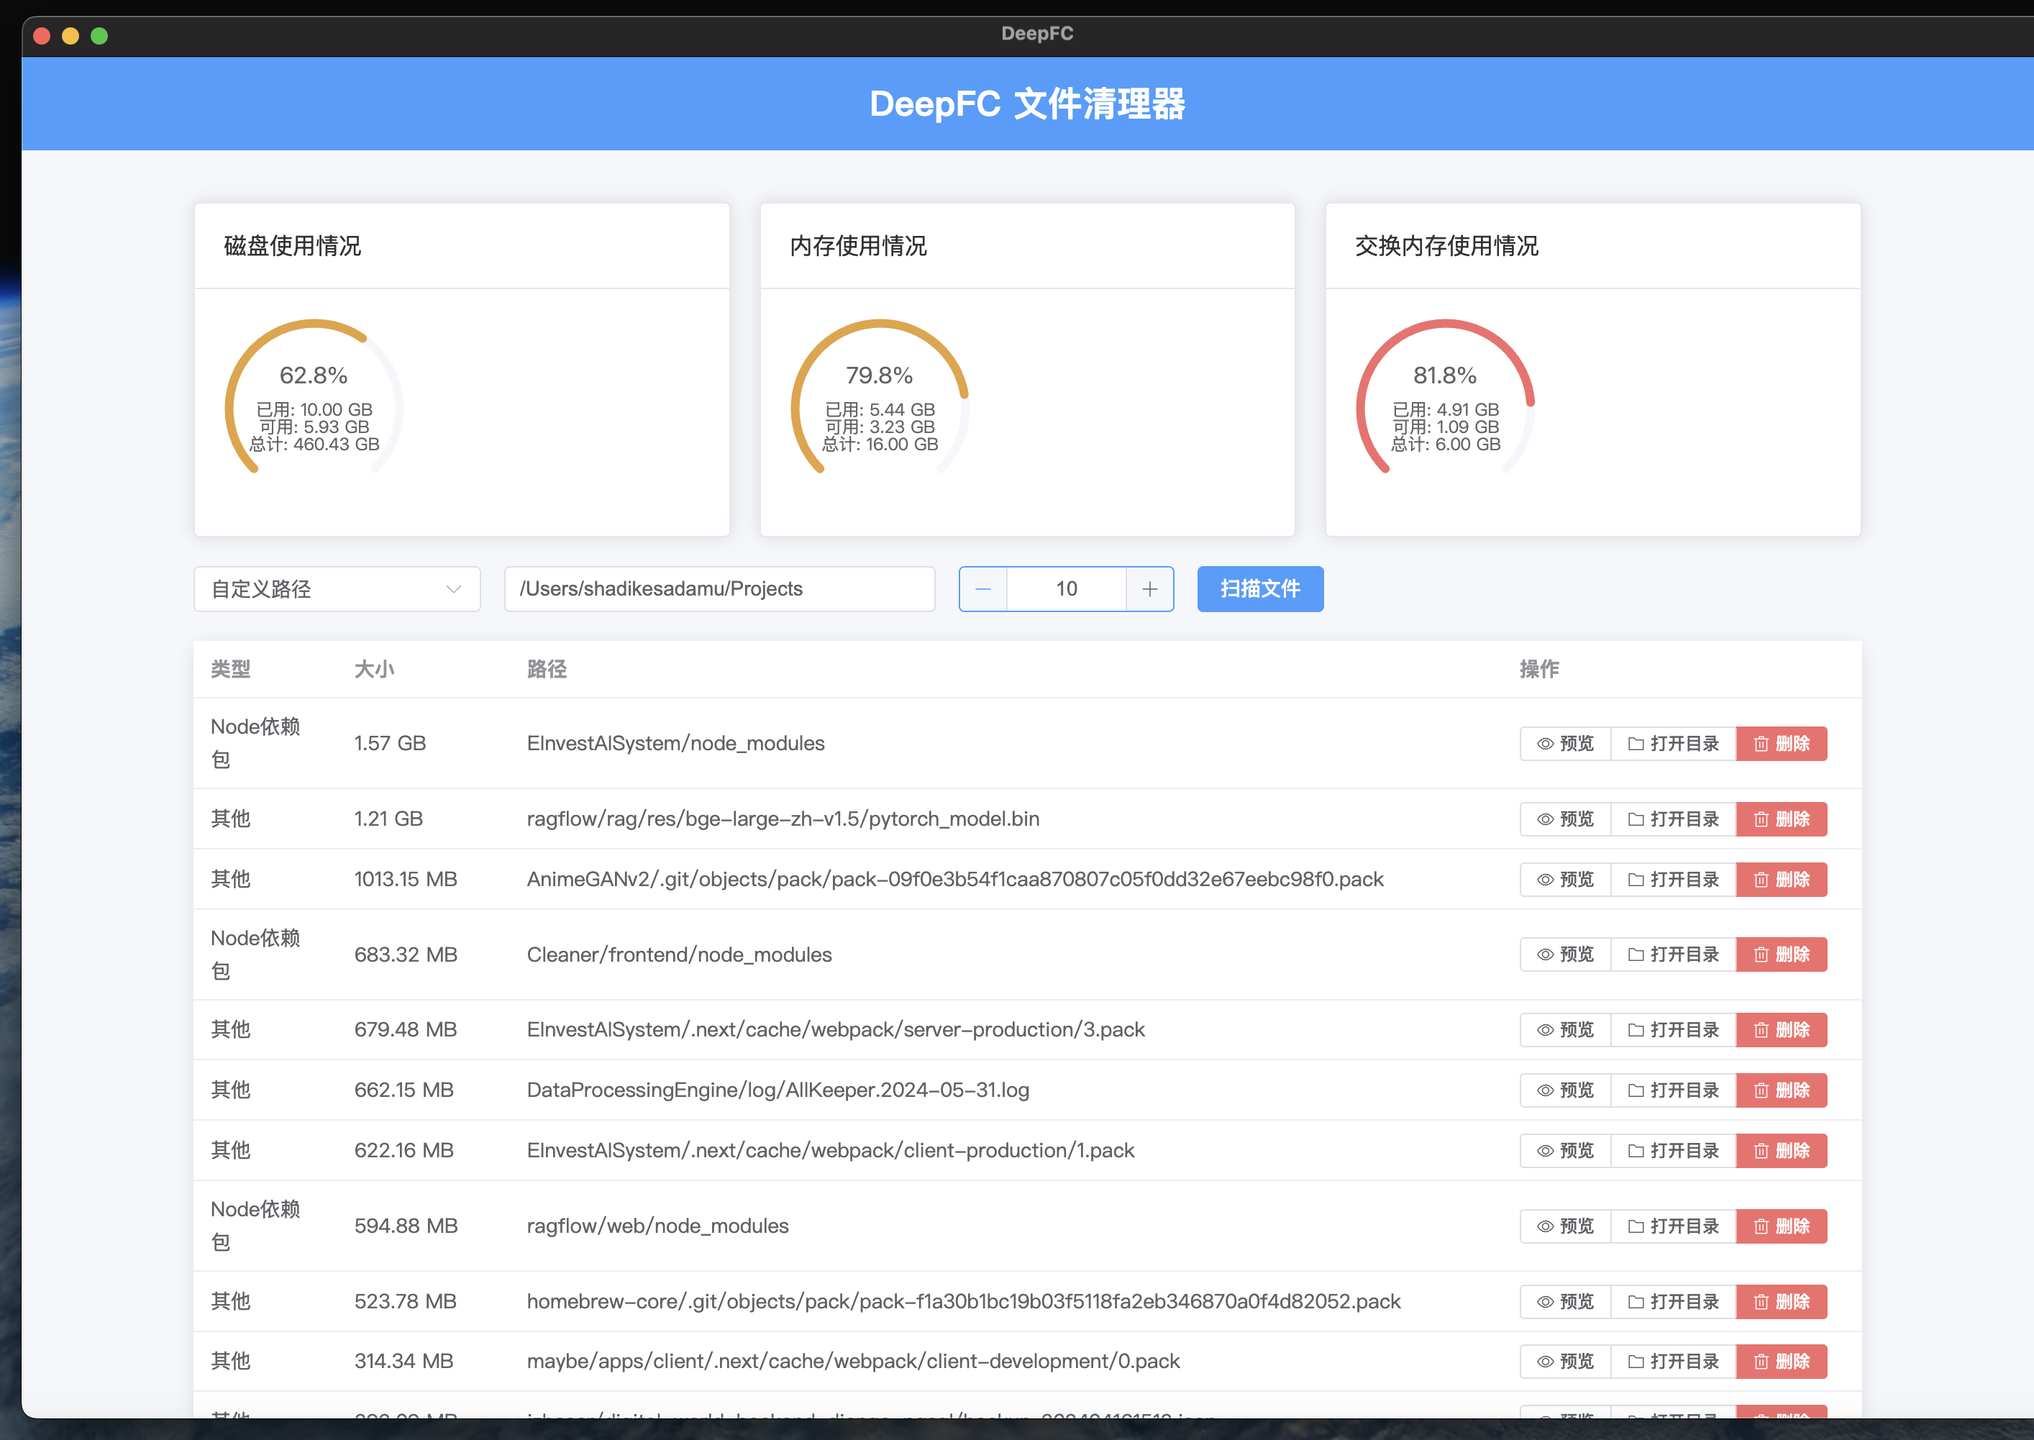
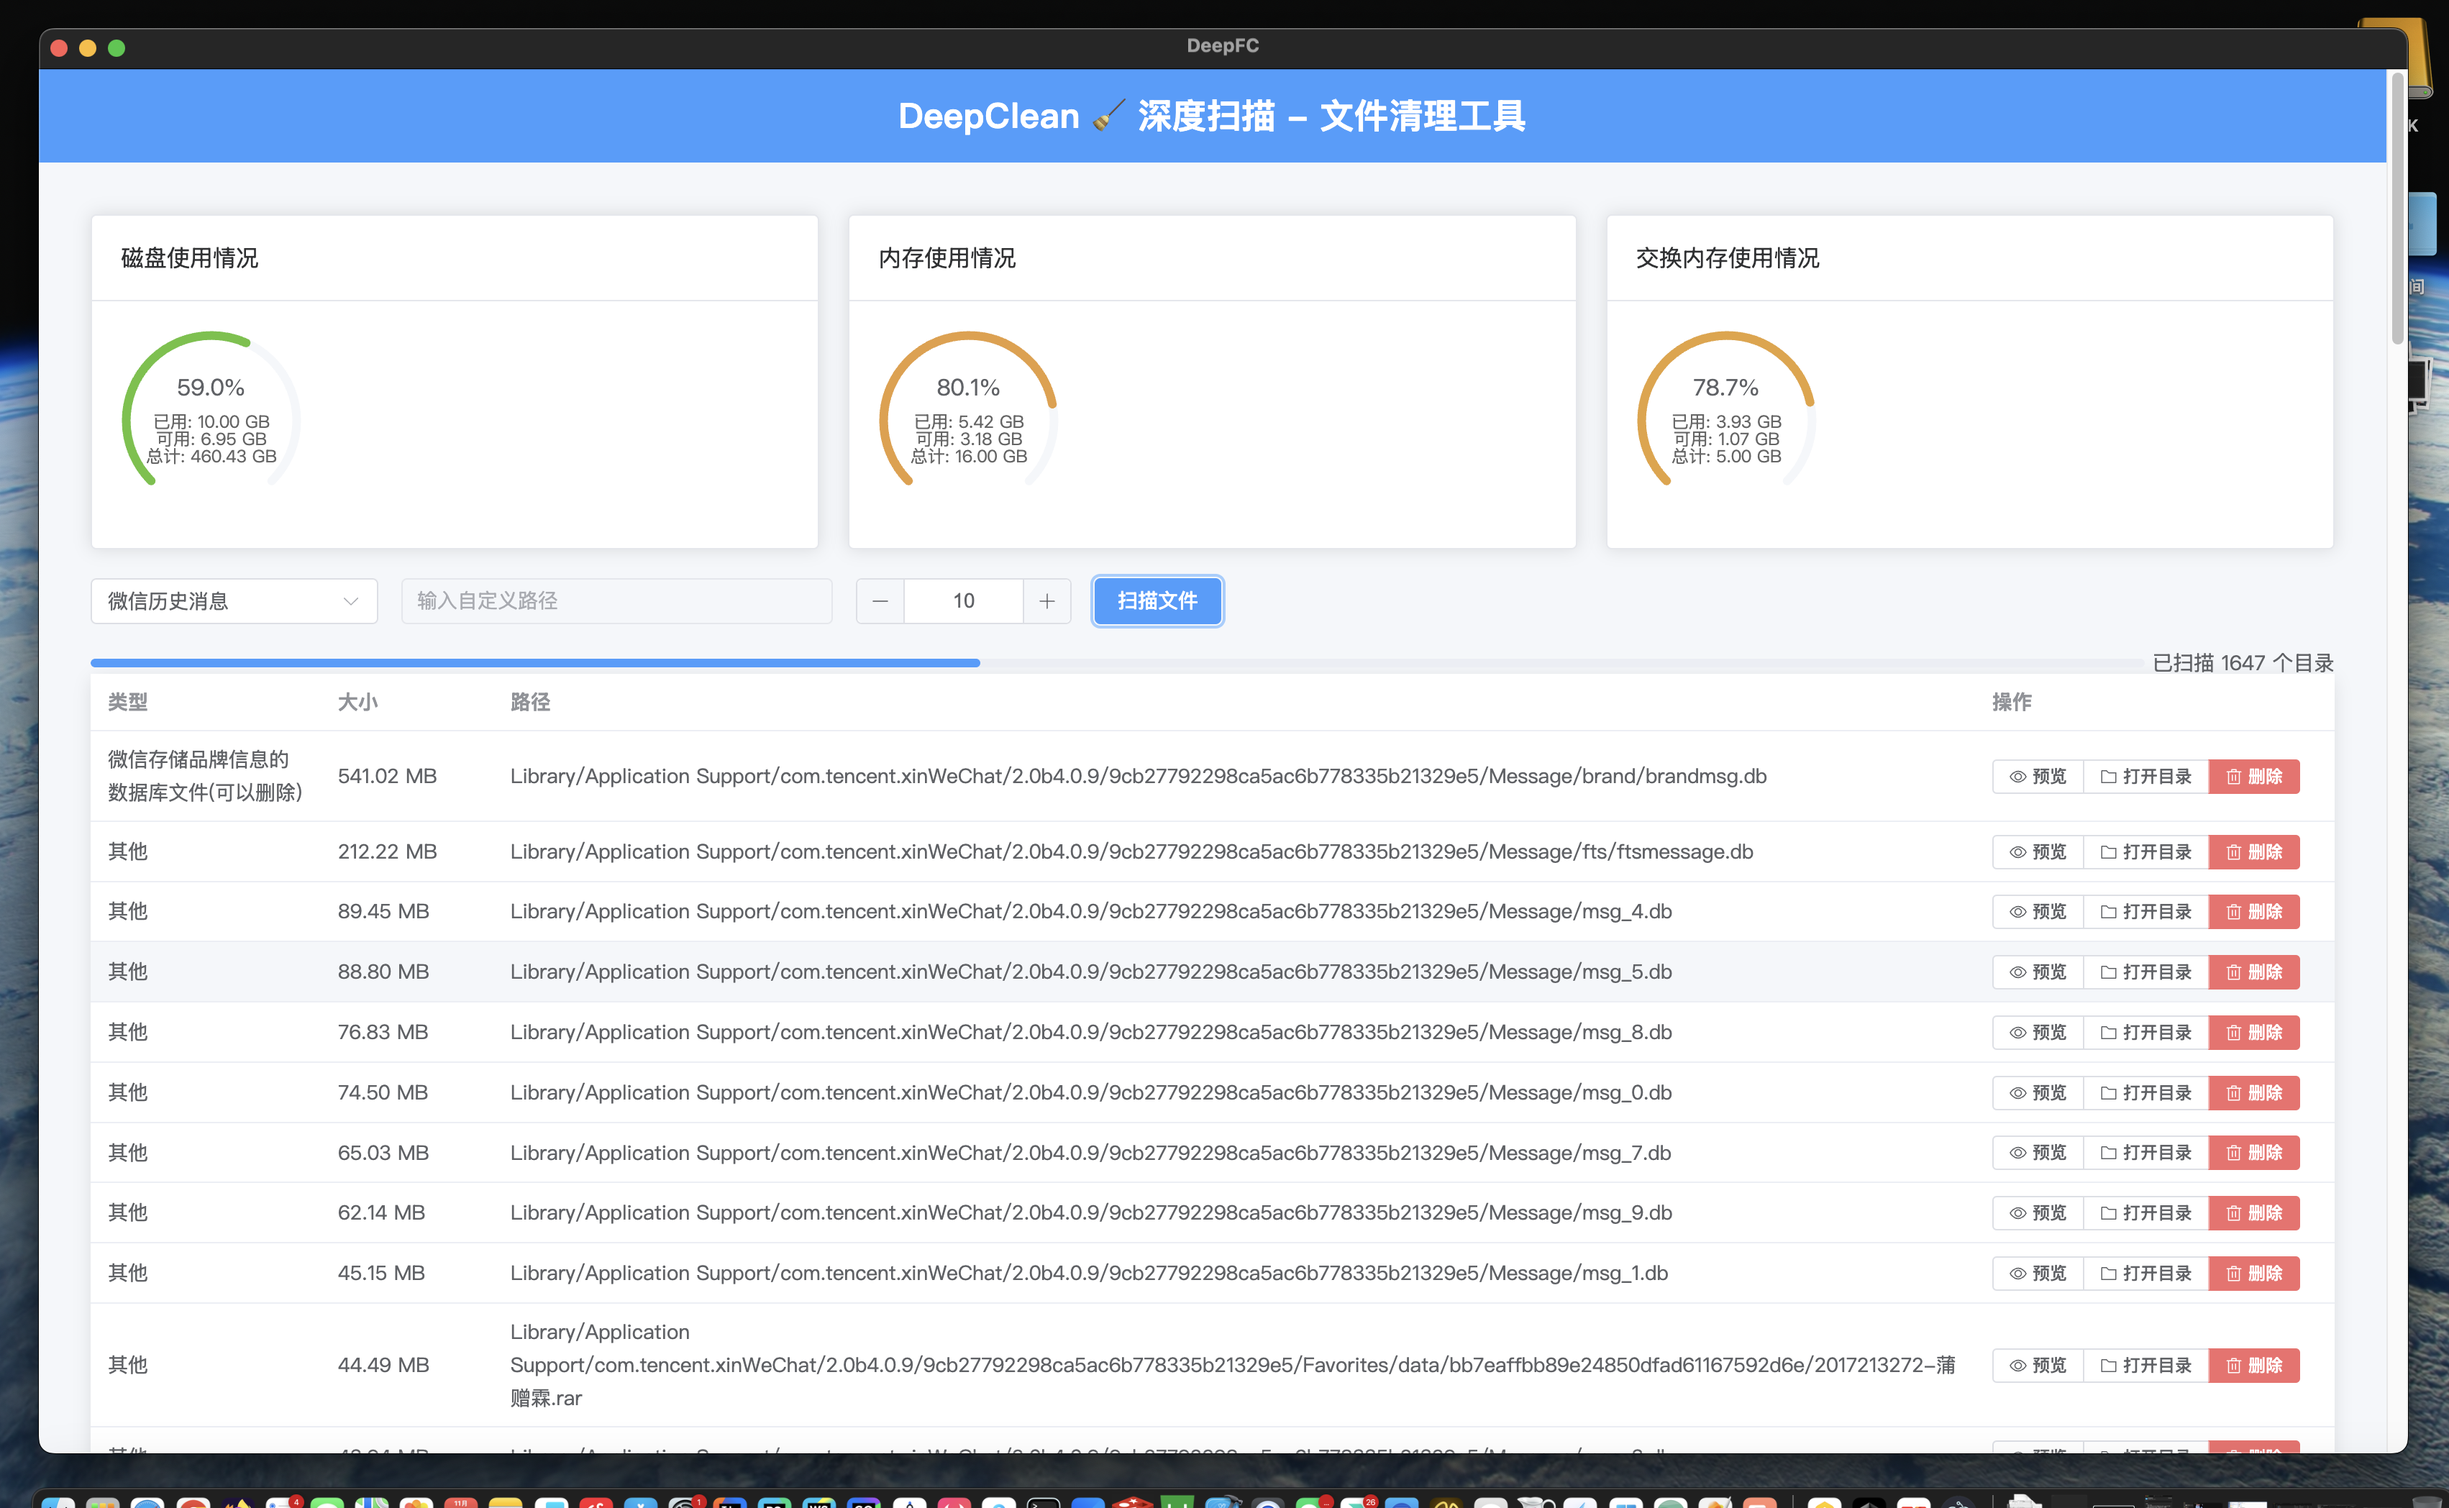
修复了Yarn缓存,Jetbrains全家桶缓存,Lark缓存,PIP缓存等选项报路径不存在异常,优化了界面展示效果,修改了主页上展示的产品名称,相应的修改了文档中的项目标题.增加了一些文件类型检测逻辑和对应的提示语.

diff --git a/frontend/src/components/FileList.vue b/frontend/src/components/FileList.vue
@@ -117,7 +117,7 @@
     <!-- 文件列表 -->
     <div class="file-list">
       <el-table :data="files" style="width: 100%">
-        <el-table-column prop="type" label="类型" width="100" />
+        <el-table-column prop="type" label="类型" width="160" />
         <el-table-column prop="size" label="大小" width="120">
           <template #default="scope">
             {{ formatSize(scope.row.size) }}
@@ -188,7 +188,7 @@ const pathOptions = [
     value: 'yarn',
   },
   {
-    label: 'JetBrains缓存',
+    label: 'Jetbrains全家桶缓存',
     value: 'jetbrains',
   },
   {

diff --git a/frontend/src/App.vue b/frontend/src/App.vue
@@ -1,7 +1,7 @@
 <template>
   <div class="app">
     <header class="header">
-      <h1>DeepFC 文件清理器</h1>
+      <h1>DeepClean 🧹 深度扫描 - 文件清理工具</h1>
     </header>
     <main class="main">
       <FileList />
@@ -43,7 +43,7 @@ body {
 }
 
 .main {
-  max-width: 1200px;
+  max-width: 1600px;
   margin: 0 auto;
   padding: 1rem;
 }

diff --git a/backend/core.py b/backend/core.py
@@ -1,15 +1,18 @@
-import re
-import os
-import click
-from pathlib import Path
-from tools import storageFormat
 import hashlib
+import logging
+import os
+import re
+
+import click
+
+from exceptions import DirectoryNotExistError
+from tools import storageFormat
 
 
 class FileScanner:
     def __init__(self):
         self.base_path = os.path.expanduser(
-            "~/Library/Containers/com.tencent.xinWeChat/Data/Library/Application Support/com.tencent.xinWeChat")
+            "~/Library/Containers/com.tencent.xinWeChat/Data")
         self.large_files = []
         self.size_threshold = 10 * 1024 * 1024  # 默认10MB
         self.accounts = {}
@@ -22,7 +25,7 @@ class FileScanner:
         pattern = r'^[a-fA-F0-9]{32}$'
         return bool(re.match(pattern, dirname))
 
-    def scan_message_files(self, min_size_mb=10):
+    def scan_wx_message_files(self, min_size_mb=10):
         """扫描微信消息中的大文件"""
         self.size_threshold = min_size_mb * 1024 * 1024
 
@@ -89,7 +92,10 @@ class FileScanner:
 
     def _get_file_type(self, filename):
         """获取文件类型"""
+        if filename == "brandmsg.db":
+            return "微信存储品牌信息的数据库文件(可以删除)"
         ext = os.path.splitext(filename)[1].lower()
+        # TODO: 此项映射表可以放在服务器上进行维护
         type_map = {
             '.jpg': '图片',
             '.jpeg': '图片',
@@ -104,6 +110,8 @@ class FileScanner:
             '.docx': 'Word文档',
             '.xls': 'Excel表格',
             '.xlsx': 'Excel表格',
+            '.zip': '压缩包',
+            '.nb3': 'Navicat数据库备份文件 (不可删除, 非常重要‼)'
         }
         return type_map.get(ext, '其他')
 
@@ -173,9 +181,6 @@ class FileScanner:
         self.scanned_dirs = 0
 
         self.size_threshold = min_size_mb * 1024 * 1024
-
-        if not os.path.exists(directory_path):
-            return
 
         def get_dir_size(start_path):
             total_size = 0
@@ -278,17 +283,24 @@ class FileScanner:
         }
 
     def start_scan(self, directory_path, min_size_mb=10):
+        directory_path = os.path.expanduser(directory_path)
         """开始异步扫描"""
+        if not os.path.exists(directory_path):
+            raise DirectoryNotExistError(directory_path)
+        logging.debug(f"触发StartScan:{directory_path}")
         self.clear_scan_results()
         self.scanning = True
 
         def run_scan():
+            logging.debug("扫描进程启动")
             try:
                 self.scan_directory(directory_path, min_size_mb)
+                logging.debug("扫描进程正常结束")
             except Exception as e:
-                print(f"Scan error: {e}")
+                logging.error(f"Scan error: {e}")
             finally:
                 self.scanning = False
+                logging.debug("扫描进程结束")
 
         # 创建新线程执行扫描
         import threading

diff --git a/backend/api.py b/backend/api.py
@@ -8,7 +8,11 @@ import subprocess
 from pydantic import BaseModel
 import shutil
 import psutil
+import logging
+from utils import logger
+from exceptions import DirectoryNotExistError
 
+logger.init('DeepClean-api', console_level=logging.DEBUG)
 app = FastAPI()
 
 # CORS设置
@@ -28,10 +32,11 @@ class FileAction(BaseModel):
     base_path: str = ""
 
 
+# TODO: 这个映射表,也可以在服务器上进行维护
 BASE_PATHS = {
     'system': '/',
     'user': os.path.expanduser('~'),
-    'wechat': '~/Library/Containers/com.tencent.xinWeChat/Data/Library/Application Support/com.tencent.xinWeChat',
+    'wechat': '~/Library/Containers/com.tencent.xinWeChat/Data',
     'photos': '~/Pictures',
     'yarn': '~/Library/Caches/Yarn',
     'jetbrains': '~/Library/Caches/JetBrains',
@@ -50,17 +55,20 @@ async def scan_files(min_size: int = 10, path: str = "wechat"):
     # 如果已经在扫描，返回错误
     if scanner.scanning:
         raise HTTPException(status_code=400, detail="Scan already in progress")
-    
-    if path == "wechat":
-        scanner.scan_message_files(min_size_mb=min_size)
-    elif path == "photos":
-        scanner.scan_photos_library(min_size_mb=min_size)
-    elif path in ["user", "system", "photos", "yarn", "jetbrains", "lark", "google", "pip"]:
-        scanner.start_scan(BASE_PATHS[path], min_size_mb=min_size)
-    elif os.path.exists(path):
-        scanner.start_scan(path, min_size_mb=min_size)
-    else:
-        raise HTTPException(status_code=400, detail="Invalid path")
+    try:
+        if path == "wechat":
+            # scanner.scan_message_files(min_size_mb=min_size)
+            scanner.start_scan(BASE_PATHS[path], min_size_mb=min_size)
+        elif path == "photos":
+            scanner.scan_photos_library(min_size_mb=min_size)
+        elif path in ["user", "system", "photos", "yarn", "jetbrains", "lark", "google", "pip"]:
+            scanner.start_scan(BASE_PATHS[path], min_size_mb=min_size)
+        elif os.path.exists(path):
+            scanner.start_scan(path, min_size_mb=min_size)
+        else:
+            raise HTTPException(status_code=400, detail="Invalid path")
+    except DirectoryNotExistError as e:
+        raise HTTPException(status_code=404, detail=str(e))
 
     return {
         "status": "scanning",

diff --git a/backend/utils/logger.py b/backend/utils/logger.py
@@ -1,0 +1,51 @@
+# _*_ codign:utf8 _*_
+"""====================================
+@Author:Sadam·Sadik
+@Email：1903249375@qq.com
+@Date：2022/11/17
+@Software: PyCharm
+@disc:
+======================================="""
+# coding:utf-8
+
+import datetime
+import logging
+import os
+
+import colorlog
+
+
+def init(filename, log_dir="logs", file_level=logging.DEBUG, console_level=logging.INFO):
+    # 控制台输出不同级别日志颜色设置
+    color_config = {
+        'DEBUG': 'cyan',
+        'INFO': 'green',
+        'WARNING': 'yellow',
+        'ERROR': 'red',
+        'CRITICAL': 'purple',
+    }
+
+    # 输出到控制台
+    console_handler = logging.StreamHandler()
+    # console_handler = logging.StreamHandler(sys.stdout)
+    # 日志格化字符串
+    console_handler.setFormatter(colorlog.ColoredFormatter(
+        fmt='{log_color:s}[{asctime:s}][{levelname:^7s}][{threadName:s}-{filename:s}:{lineno:d}]: {message:s}',
+        log_colors=color_config, style='{'))
+    # 指定最低日志级别：（critical > error > warning > info > debug）
+    console_handler.setLevel(console_level)
+
+    # 输出到文件
+    if not os.path.exists(log_dir):
+        os.makedirs(log_dir)
+    n = datetime.datetime.now()
+    logFilePath = os.path.join(log_dir, f"{filename}-{n.strftime('%Y%m%d%H%M')}.log")
+    file_handler = logging.FileHandler(filename=logFilePath, mode='a', encoding='utf-8')
+    file_handler.setFormatter(
+        logging.Formatter(fmt='[{asctime:s}][{levelname:^7s}][{threadName:s}-{filename:s}:{lineno:d}]: {message:s}',
+                          style='{', datefmt='%m/%d/%Y %H:%M:%S'))
+    # 指定最低日志级别：（critical > error > warning > info > debug）
+    file_handler.setLevel(file_level)
+
+    logging.basicConfig(level=min(file_level, console_level), handlers=[file_handler, console_handler])
+    logging.debug("日志输出文件：" + logFilePath)

diff --git a/backend/main.py b/backend/main.py
@@ -1,10 +1,12 @@
 import filecmp
+import logging
 import subprocess
 import click
 import os
 import hashlib
 from concurrent.futures import ThreadPoolExecutor, as_completed
 
+from utils import logger
 from tools import storageFormat
 from core import FileScanner
 
@@ -202,9 +204,9 @@ def scan_wechat(min_size):
     """扫描微信中的大文件"""
     scanner = FileScanner()
     with click.progressbar(length=100, label='正在扫描微信文件...') as bar:
-        scanner.scan_message_files(min_size_mb=min_size)
+        scanner.scan_wx_message_files(min_size_mb=min_size)
         bar.update(100)
-    
+
     scanner.print_large_files()
     scanner.clean_selected_files()
 
@@ -218,4 +220,5 @@ def start_ui(port):
 
 # 按装订区域中的绿色按钮以运行脚本。
 if __name__ == "__main__":
+    logger.init('DeepClean', console_level=logging.DEBUG)
     main()

diff --git a/backend/exceptions.py b/backend/exceptions.py
@@ -1,0 +1,14 @@
+# _*_ codign:utf8 _*_
+"""====================================
+@Author:Sadam·Sadik
+@Email：1903249375@qq.com
+@Date：2024/11/13
+@Software: PyCharm
+@disc:
+======================================="""
+
+
+class DirectoryNotExistError(Exception):
+    def __init__(self, path):
+        self.path = path
+        super().__init__(f'Directory does not exist. [{path}]')

diff --git a/backend/utils/__init__.py b/backend/utils/__init__.py
@@ -1,0 +1,8 @@
+# _*_ codign:utf8 _*_
+"""====================================
+@Author:Sadam·Sadik
+@Email：1903249375@qq.com
+@Date：2024/11/13
+@Software: PyCharm
+@disc:
+======================================="""

diff --git a/README.md b/README.md
@@ -1,4 +1,4 @@
-# DeepFC (Deep File Cleaner) 深度文件清理器
+# DeepClean 🧹 深度扫描-文件清理工具
 
 基于`Electron`+`Vue3`+`Vite`+`FastAPI` 开发的跨平台深度文件扫描清理工具.
 ![](assets/screenshot.png)
